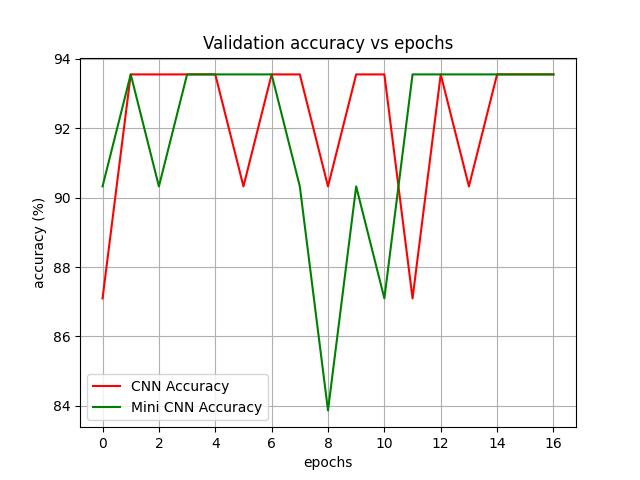
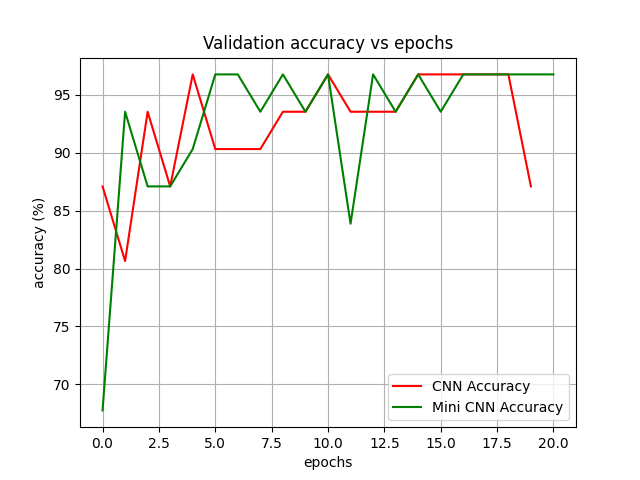
trained for both sides

diff --git a/Anomalieerkennung_DNN/helper_function.py b/Anomalieerkennung_DNN/helper_function.py
@@ -2,52 +2,7 @@ import os
 import numpy as np
 from tensorflow.keras.preprocessing.image import img_to_array, load_img
 
-# load data
-
-
-def load_training_data(train_path, val_path):
-
-    # load data for cnn
-    train_images, train_labels = (load_images_from_folder(train_path))
-    train_images = train_images / 255.0
-
-    val_images, val_labels = (load_images_from_folder(val_path))
-    val_images = val_images / 255.0
-
-    return train_images, train_labels, val_images, val_labels
-
-# load test data from a single folder
-
-def load_test_data(test_path):
-
-    # load data for cnn
-    test_images, test_labels = (load_images_from_folder(test_path))
-    test_images = test_images / 255.0
-
-    return test_images, test_labels
-
-# load images from folders
-
-
-def load_images_from_folder(folder):
-    images = []
-    labels = []
-    class_labels = {'Anomalie': 1, 'Standard-Schraube': 0}
-
-    for class_folder in os.listdir(folder):
-        class_label = class_labels[class_folder]
-        class_path = os.path.join(folder, class_folder)
-
-        for filename in os.listdir(class_path):
-            img_path = os.path.join(class_path, filename)
-            img = load_img(img_path, target_size=(32, 32))
-            img_array = img_to_array(img)
-            images.append(img_array)
-            labels.append(class_label)
-
-    return np.array(images), np.array(labels)
-
-
+# Laden eines Bildes und Umwandeln in ein Array
 def load_image_from_file(file):
     img_path = os.path.join(file)
     img = load_img(img_path, target_size=(32, 32))

diff --git a/Anomalieerkennung_DNN/plot_metrics.py b/Anomalieerkennung_DNN/plot_metrics.py
@@ -43,15 +43,7 @@ def plot_accuracy(cnn_history, mini_cnn_history, save_path):
     plt.savefig(save_path)
 
 
-# def plot_confusion_matrix(test_labels, predicted_labels,save_path):
-
-#     confusion_matrix_predicted = confusion_matrix(test_labels, predicted_labels)
-
-#     plt.figure()
-#     plt.title("Confusion Matrix")
-#     sns.heatmap(confusion_matrix_predicted, annot=True, fmt='d', cmap='Reds')
-#     plt.savefig(save_path)
-
+    # plot confusion matrix
 def plot_confusion_matrix(test_labels, predicted_labels, save_path):
     confusion_matrix_predicted = confusion_matrix(test_labels, predicted_labels)
 

diff --git a/Anomalieerkennung_DNN/main_oben.py b/Anomalieerkennung_DNN/main_oben.py
@@ -21,11 +21,11 @@ image_size = (224, 224)
 
 use_augmentation = True
 
-num_augmented_images_per_original = 50
+num_augmented_images_per_original = 80
 
-epoch = 30
+epoch = 50
 
-batch_size = 8
+batch_size = 32
 
 num_classes = len(os.listdir(image_directory))
 

diff --git a/Anomalieerkennung_DNN/data_augmentation.py b/Anomalieerkennung_DNN/data_augmentation.py
@@ -57,4 +57,3 @@ def perform_data_augmentation(X_train, y_train, num_augmented_images_per_origina
     # Ausgabe der augmentierten Trainingsdaten
 
     return X_train_augmented, y_train_augmented
-
